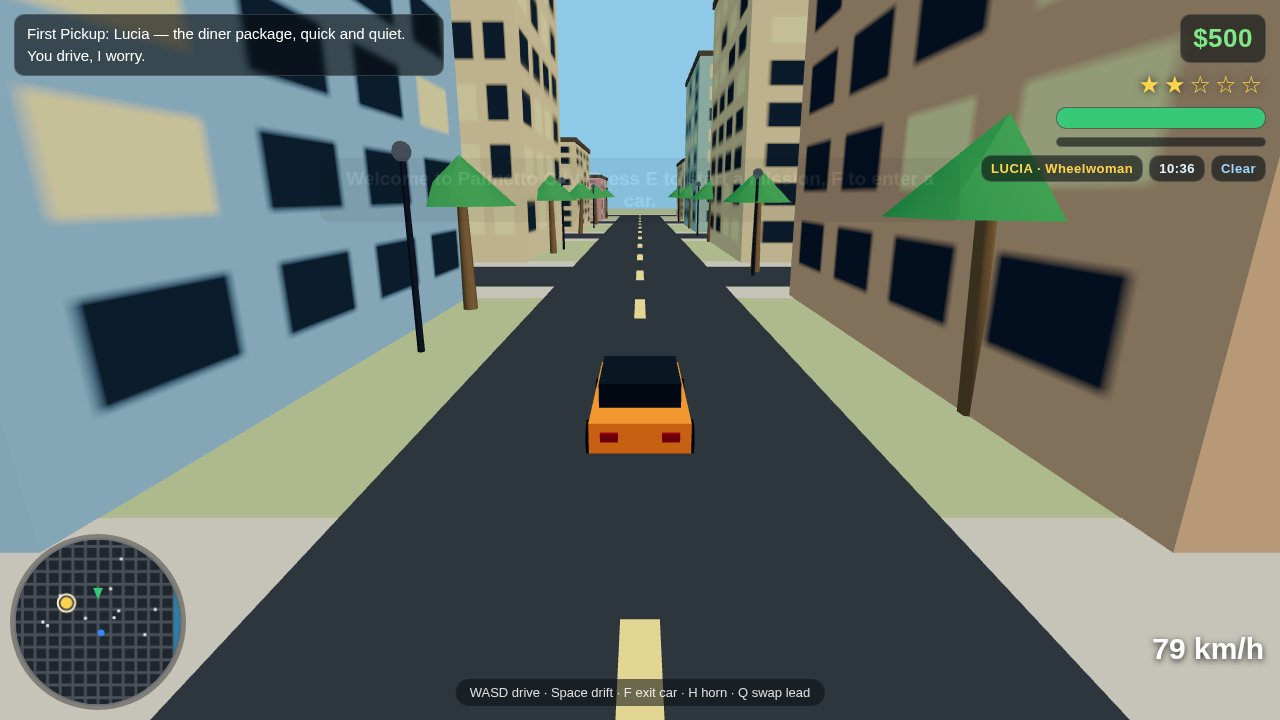
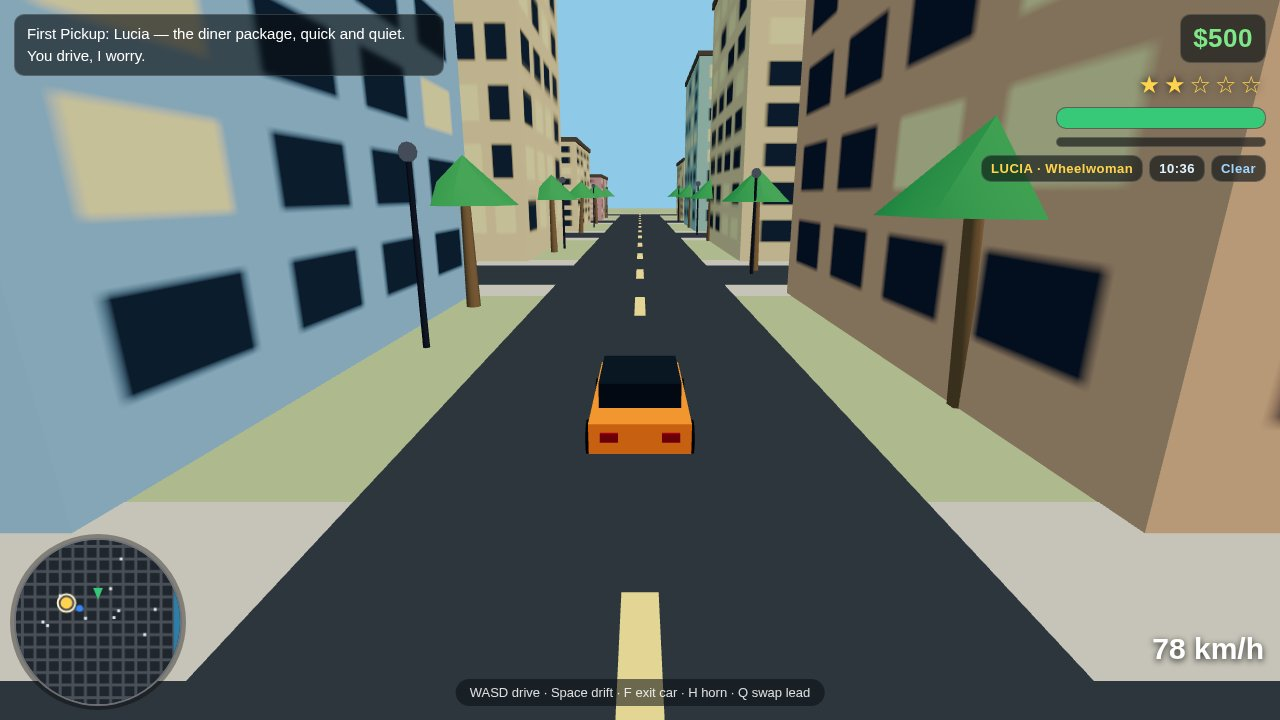
Hide welcome toast in staged screenshots

diff --git a/game/src/main.js b/game/src/main.js
@@ -115,7 +115,7 @@ function startGame() {
   game.state = 'playing';
   showTitle(false);
   hideEnd();
-  showMessage('Welcome to Palmetto City. Press E to start a mission, F to enter a car.');
+  if (!SHOT) showMessage('Welcome to Palmetto City. Press E to start a mission, F to enter a car.');
 }
 
 function enterCar(car) {
